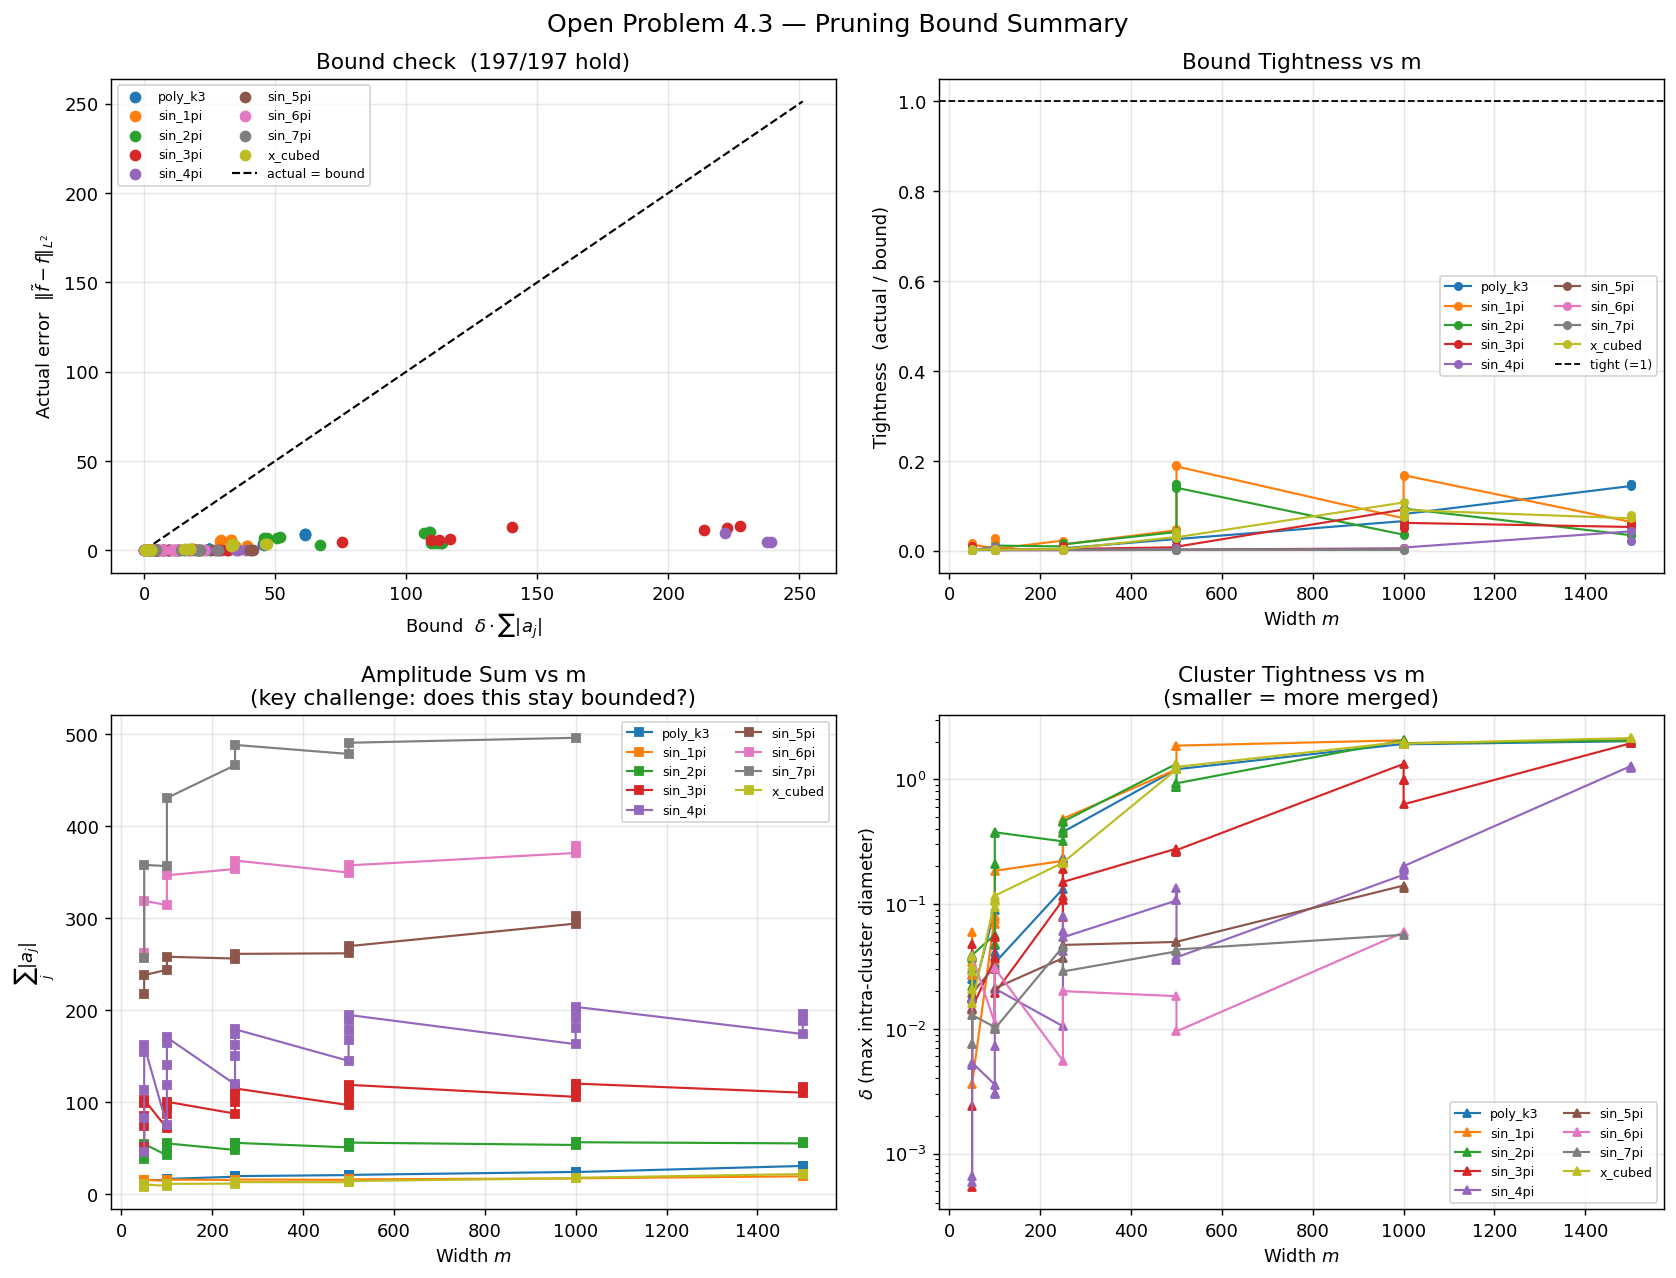
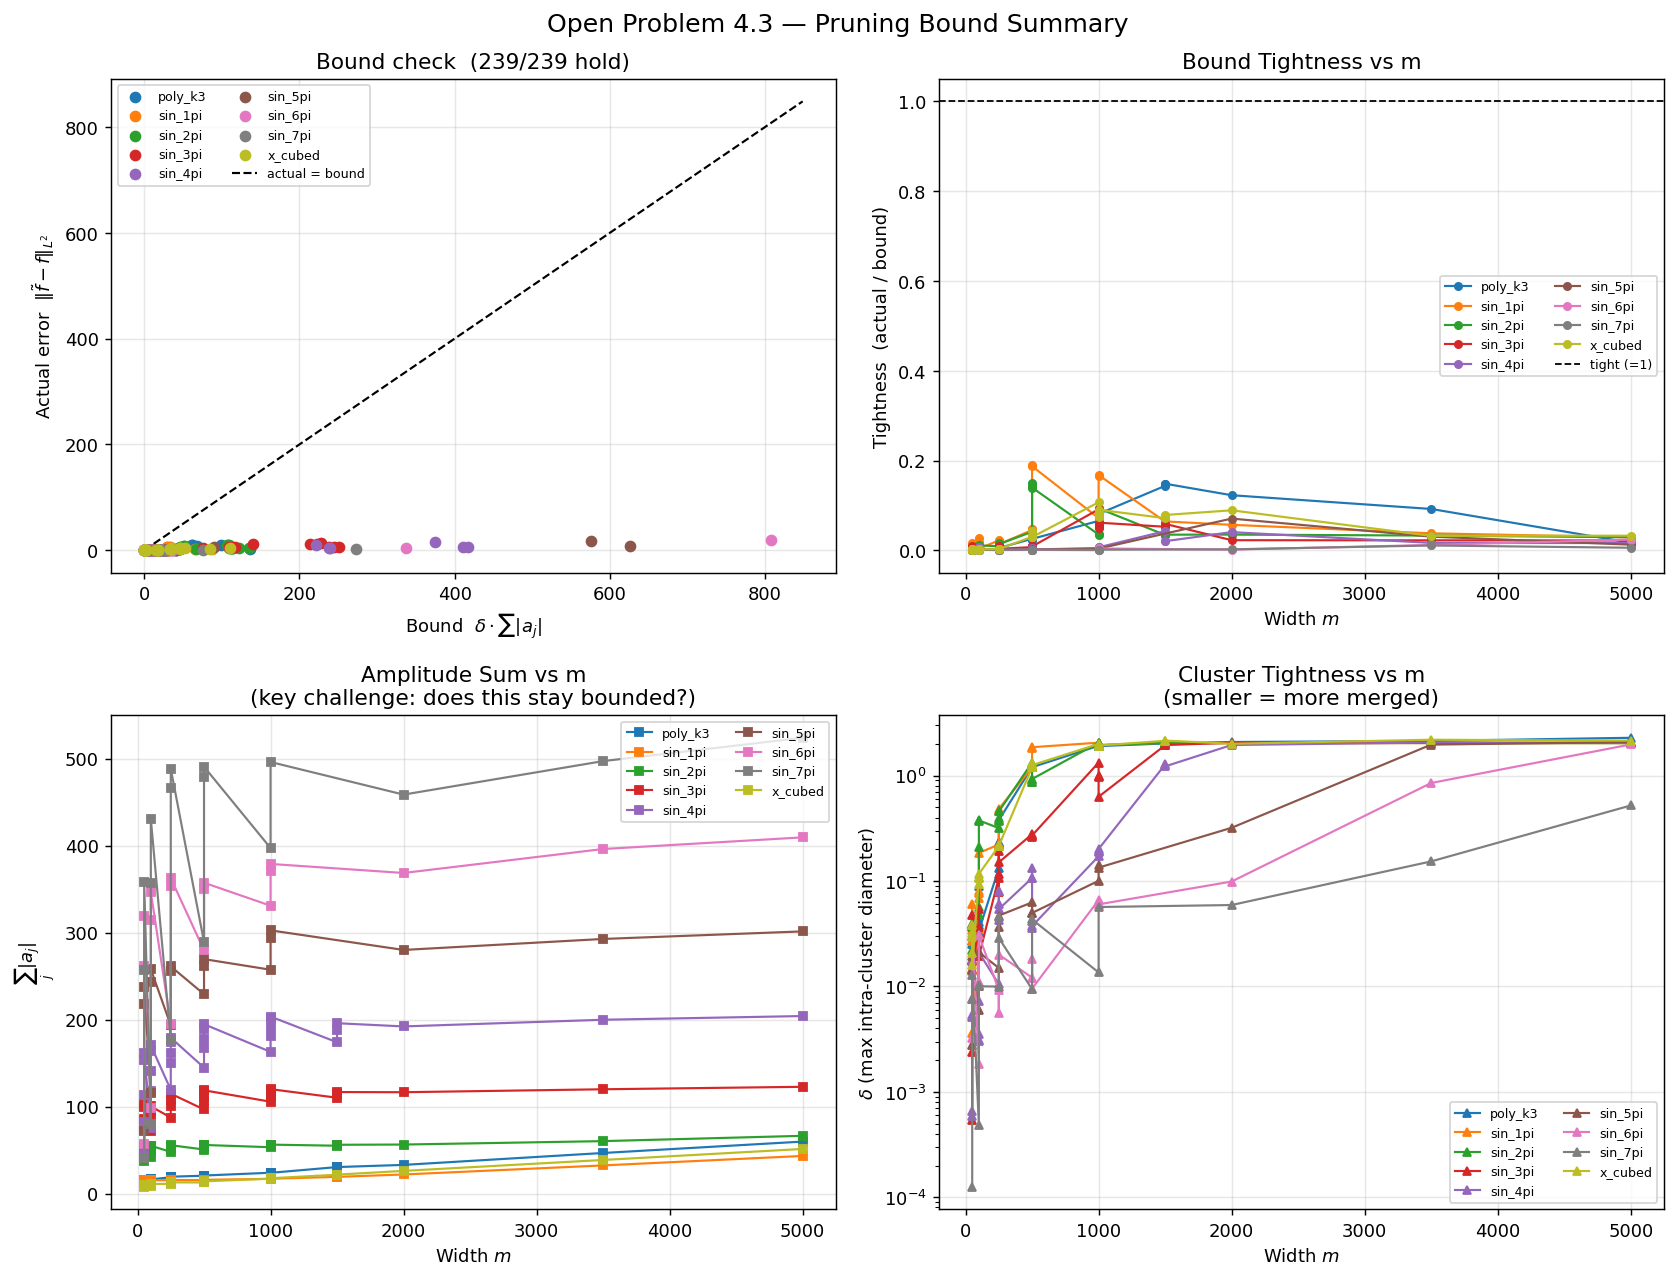
Ready to run instability

diff --git a/instability_test.py b/instability_test.py
@@ -429,7 +429,7 @@ def test_one(args):
             ax.set_xlabel(f'{AXIS_LABEL} after test start')
             ax.set_ylabel('Bias location')
             ax.set_title(f'Bias Trajectories\n(green = original cluster centers)')
-            ax.set_xlim([0, t_arr[-1]])
+            ax.set_xlim([0, max(t_arr[-1], 1.0)])
 
             ax = axes[1]
             ax.plot(t_arr, cluster_counts, color='purple', lw=1.8)
@@ -441,7 +441,7 @@ def test_one(args):
             ax.set_ylabel('Cluster count $C(t)$')
             ax.set_title(f'Cluster Count\nfinal={final_n},  returned to k: {bool(returned_to_k)}')
             ax.legend(fontsize=8)
-            ax.set_xlim([0, t_arr[-1]])
+            ax.set_xlim([0, max(t_arr[-1], 1.0)])
             ax.grid(True, alpha=0.3)
 
             ax = axes[2]
@@ -553,7 +553,7 @@ def test_one(args):
         ax.set_ylabel('Bias location')
         ax.set_title('Bias Trajectories\n(red=injected, green=original clusters)')
         ax.legend(fontsize=8)
-        ax.set_xlim([0, t_arr[-1]])
+        ax.set_xlim([0, max(t_arr[-1], 1.0)])
 
         ax = axes[1]
         ax.plot(t_arr, np.abs(a_inj_traj), color='darkorange', lw=1.8)
@@ -564,7 +564,7 @@ def test_one(args):
         ax.set_title(f'Injected Amplitude\ninitial={a_inject_initial:.3f},  '
                      f'final={abs(a_inject_final):.3f},  decayed: {bool(a_decayed)}')
         ax.legend(fontsize=8)
-        ax.set_xlim([0, t_arr[-1]])
+        ax.set_xlim([0, max(t_arr[-1], 1.0)])
         ax.grid(True, alpha=0.3)
 
         ax = axes[2]
@@ -577,7 +577,7 @@ def test_one(args):
         ax.set_ylabel('Cluster count $C(t)$')
         ax.set_title(f'Cluster Count\nfinal={final_n},  returned to k: {bool(returned_to_k)}')
         ax.legend(fontsize=8)
-        ax.set_xlim([0, t_arr[-1]])
+        ax.set_xlim([0, max(t_arr[-1], 1.0)])
         ax.set_ylim([max(0, k_true - 1), initial_n + 3])
         ax.grid(True, alpha=0.3)
 